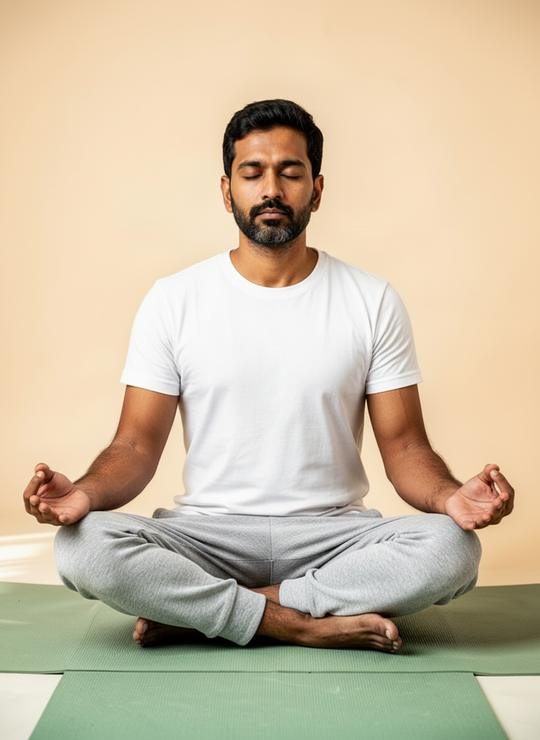
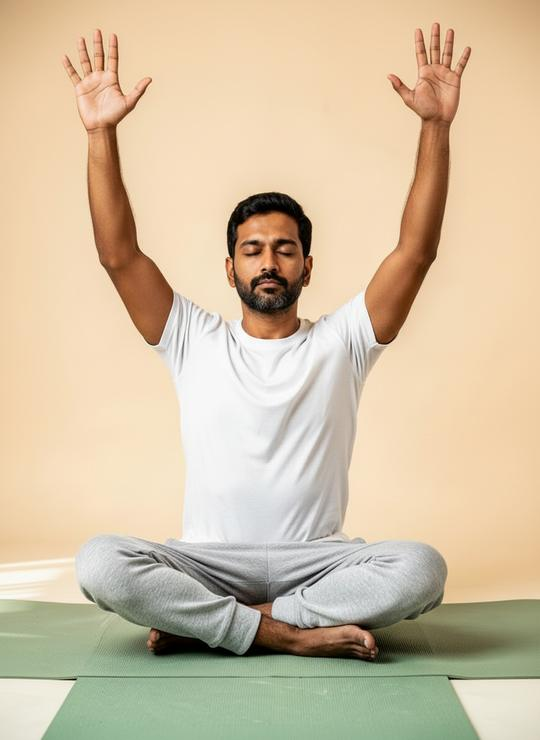
New Kapalbhati and Bhastrika photos; plank labelled as high plank
Claude-Session: https://claude.ai/code/session_01DC4MUsoZLZeE9fCUHXDCr8

diff --git a/ui/exercise.js b/ui/exercise.js
@@ -373,7 +373,7 @@ var WX = {
   pushup: ['Push-ups', 'cali', 'pushup', 'reps', 3, 10, null, 'Hands under the shoulders, body straight. Lower the chest near the floor and push up. Knees down if needed.', 'Chest, arms'],
   lunge: ['Lunges', 'cali', 'c-lunge', 'reps', 3, 10, null, 'Step forward and lower until both knees are at 90°. Push back up. Do the reps on each leg.', 'Legs', 1],
   bridge: ['Glute bridge', 'cali', 'c-bridge', 'reps', 3, 15, null, 'On your back, knees bent. Lift the hips until the body is straight from shoulders to knees.', 'Glutes, back'],
-  plank: ['Plank hold', 'cali', 'c-plank', 'time', 3, 30, null, 'Hands under the shoulders, body in a straight line. Hold, breathing normally.', 'Core'],
+  plank: ['High plank', 'cali', 'c-plank', 'time', 3, 30, null, 'Hands under the shoulders, arms straight, body in one line from head to heels. Hold, breathing normally. Forearms down makes it a forearm plank.', 'Core'],
   jacks: ['Jumping jacks', 'aero', 'jacks', 'time', 3, 40, null, 'Jump the feet apart while raising the arms overhead, then back. Keep a steady rhythm.', 'Full body'],
   knees: ['High knees', 'aero', 'a-knees', 'time', 3, 30, null, 'Run on the spot, lifting the knees to hip height, arms pumping.', 'Legs, heart'],
   jog: ['Spot jogging', 'aero', 'a-jog', 'time', 3, 45, null, 'Jog on the spot at an easy, steady pace.', 'Heart'],
